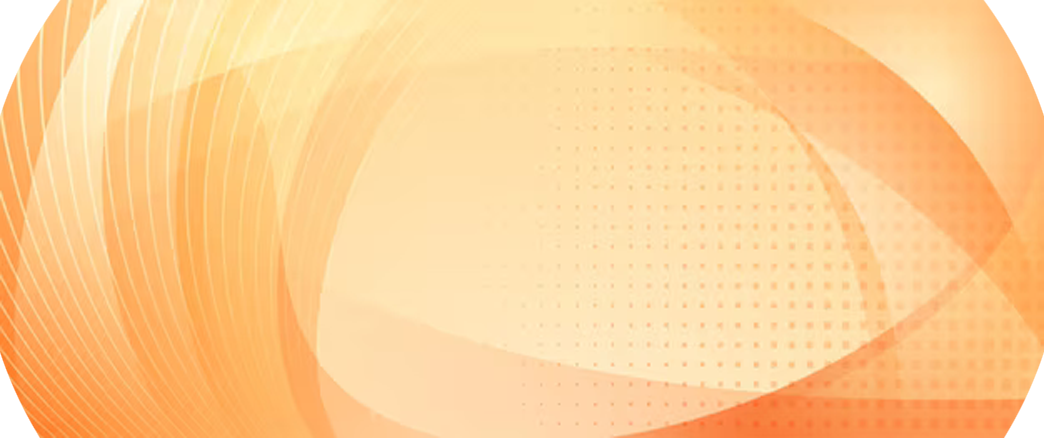
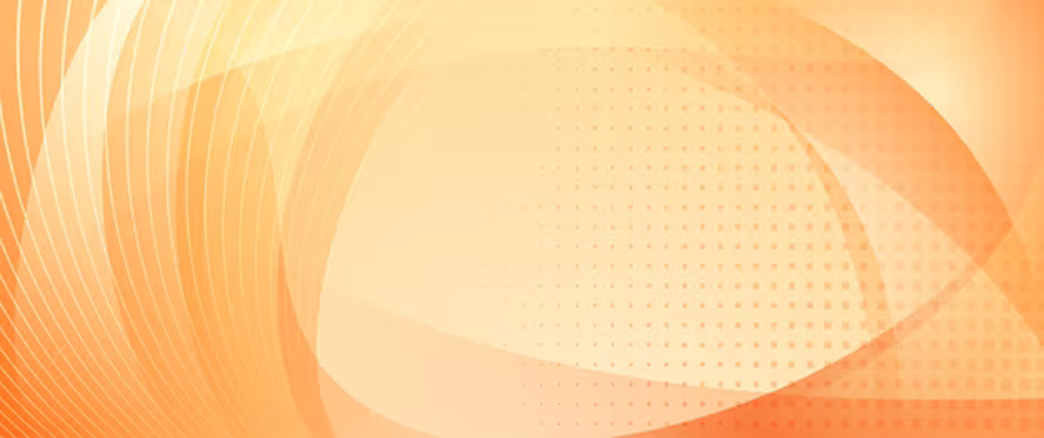
DataPanel háttér cseréje

diff --git a/Project/Saturn_Client/UserDataForm.Designer.cs b/Project/Saturn_Client/UserDataForm.Designer.cs
@@ -36,6 +36,7 @@
             // saturnCodeLabel
             // 
             saturnCodeLabel.AutoSize = true;
+            saturnCodeLabel.BackColor = Color.WhiteSmoke;
             saturnCodeLabel.Location = new Point(50, 26);
             saturnCodeLabel.Name = "saturnCodeLabel";
             saturnCodeLabel.Size = new Size(83, 20);
@@ -66,7 +67,7 @@
             AutoScaleMode = AutoScaleMode.Font;
             BackColor = Color.White;
             BackgroundImage = Properties.Resources.dataBack;
-            ClientSize = new Size(1043, 429);
+            ClientSize = new Size(1043, 453);
             Controls.Add(givenNameLabel);
             Controls.Add(familyNameLabel);
             Controls.Add(saturnCodeLabel);

diff --git a/Project/Saturn_Client/FinancesForm.Designer.cs b/Project/Saturn_Client/FinancesForm.Designer.cs
@@ -135,7 +135,7 @@
             AutoScaleDimensions = new SizeF(8F, 20F);
             AutoScaleMode = AutoScaleMode.Font;
             BackgroundImage = Properties.Resources.dataBack;
-            ClientSize = new Size(1043, 429);
+            ClientSize = new Size(1043, 453);
             Controls.Add(label10);
             Controls.Add(label9);
             Controls.Add(label8);

diff --git a/Project/Saturn_Client/ExamsForm.Designer.cs b/Project/Saturn_Client/ExamsForm.Designer.cs
@@ -115,7 +115,7 @@
             AutoScaleDimensions = new SizeF(8F, 20F);
             AutoScaleMode = AutoScaleMode.Font;
             BackgroundImage = Properties.Resources.dataBack;
-            ClientSize = new Size(1043, 429);
+            ClientSize = new Size(1043, 453);
             Controls.Add(label8);
             Controls.Add(label7);
             Controls.Add(label6);

diff --git a/Project/Saturn_Client/SubjectsForm.Designer.cs b/Project/Saturn_Client/SubjectsForm.Designer.cs
@@ -125,7 +125,7 @@
             AutoScaleDimensions = new SizeF(8F, 20F);
             AutoScaleMode = AutoScaleMode.Font;
             BackgroundImage = Properties.Resources.dataBack;
-            ClientSize = new Size(1043, 429);
+            ClientSize = new Size(1043, 453);
             Controls.Add(label9);
             Controls.Add(label8);
             Controls.Add(label7);

diff --git a/Project/Saturn_Client/InboxForm.Designer.cs b/Project/Saturn_Client/InboxForm.Designer.cs
@@ -65,7 +65,7 @@
             AutoScaleDimensions = new SizeF(8F, 20F);
             AutoScaleMode = AutoScaleMode.Font;
             BackgroundImage = Properties.Resources.dataBack;
-            ClientSize = new Size(1043, 429);
+            ClientSize = new Size(1043, 453);
             Controls.Add(label3);
             Controls.Add(label2);
             Controls.Add(label1);

diff --git a/Project/Saturn_Client/StudiesForm.Designer.cs b/Project/Saturn_Client/StudiesForm.Designer.cs
@@ -65,7 +65,7 @@
             AutoScaleDimensions = new SizeF(8F, 20F);
             AutoScaleMode = AutoScaleMode.Font;
             BackgroundImage = Properties.Resources.dataBack;
-            ClientSize = new Size(1043, 429);
+            ClientSize = new Size(1043, 453);
             Controls.Add(label3);
             Controls.Add(label2);
             Controls.Add(label1);
